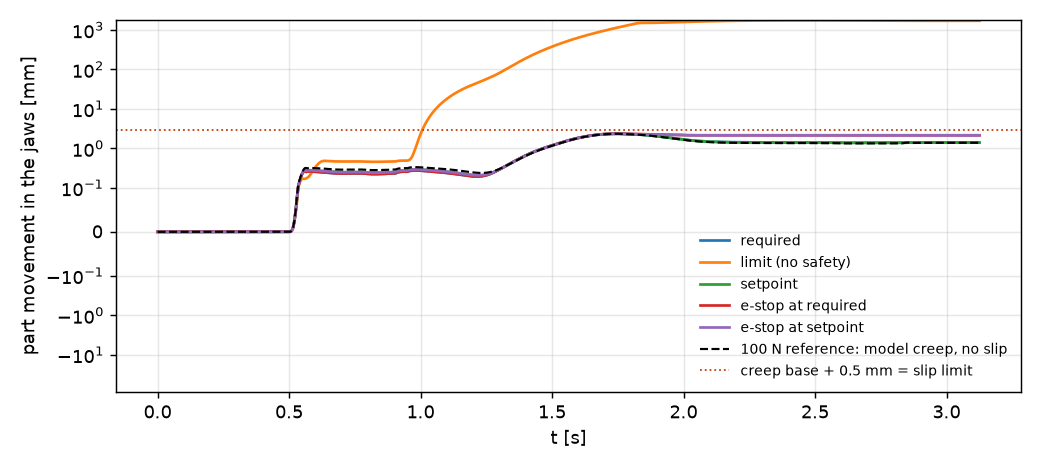
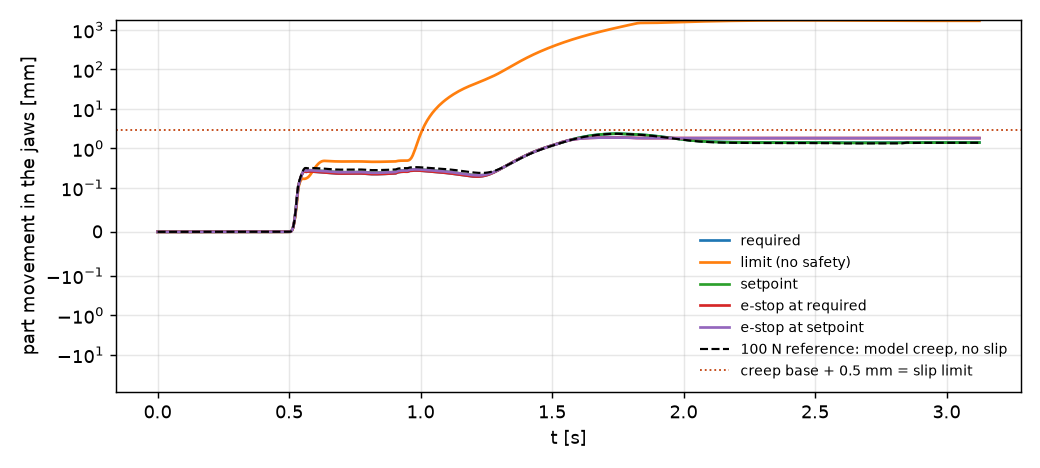
Review 2/3: category 0 e-stop anywhere in the cycle with axis-wise braking (e_stop.py); MuJoCo e-stop brakes per axis; LC4 at the ABB 82 m/s2 design acceleration

Changed region(s): [[0.5538, 0.2692, 0.9538, 0.2991]]

diff --git a/Elias/04_Simulation/e_stop.py b/Elias/04_Simulation/e_stop.py
@@ -1,0 +1,166 @@
+"""Emergency stop (category 0) anywhere in the cycle: grip force needed to keep part B (review 21 Nov 2026).
+
+python e_stop.py  ->  out/e_stop.json, figures/e_stop.png
+
+Category 0 = power off, every axis brakes on its own and the robot leaves the path. Each axis decelerates at a
+constant alpha_i (opposite to its speed) until it stands still. alpha from the ABB stop data (product specification
+p. 91: max speed, arm stretched, max load, one axis moving): a lower bound, since our load is half the nominal one
+and the arm is pulled in; the "x2" scenario doubles every alpha as a sensitivity. Wrist axes (not in the table):
+from their top speed to rest in the axis-3 stop time. A stop is started every 10 ms of the E4 cycle (both chains);
+along each stop the acceleration of part B's centre of mass and the angular acceleration of the gripper are taken
+in the gripper frame (gravity included), and the normal force per jaw that holds this load is found with the
+friction limit surface of the pad (grip_check.py): shear along y/z + twist about x, plus the shift of normal force
+between the jaws from the acceleration along x.
+"""
+import json
+import math
+import os
+import sys
+
+import mujoco
+import numpy as np
+
+import e4_cycle as E
+import sim as S
+
+HERE = os.path.dirname(os.path.abspath(__file__))
+sys.path.insert(0, os.path.join(HERE, "..", "02_CAD_Body"))
+import grip_check as GC  # noqa: E402
+
+GP, CP, MM = S.GP, S.CP, S.MM
+STOP_CAT0 = {1: (55.25, 0.40), 2: (33.39, 0.37), 3: (35.66, 0.27)}     # axis: (deg, s), spec p. 91
+T_WRIST = STOP_CAT0[3][1]
+ALPHA = np.array([2 * math.radians(STOP_CAT0[k][0]) / STOP_CAT0[k][1] ** 2 for k in (1, 2, 3)]
+                 + [math.radians(v) / T_WRIST for v in E.VMAX[3:]])          # rad/s^2
+DT, DT_STOP = 0.001, 0.002
+STEP = 0.01                                                                  # s between stop instants
+
+
+def part_inertia():
+    import trimesh
+    mesh = trimesh.load(os.path.join(HERE, "meshes", "part_b.stl"))
+    rho = GP.B_MASSE / (mesh.volume * 1e-9)
+    return mesh.moment_inertia * 1e-15 * rho, np.array(mesh.center_mass) * MM     # kg m^2 (about the CoG), m
+
+
+def make_pose_fn(m, d):
+    gid = m.body("gripper_frame").id
+    adr = [m.joint(f"A{i + 1}").qposadr[0] for i in range(6)]
+
+    def pose(q):
+        d.qpos[adr] = q
+        mujoco.mj_kinematics(m, d)
+        return d.xpos[gid].copy(), d.xmat[gid].reshape(3, 3).copy()
+    return pose
+
+
+def stop_samples(q0, qd0, alpha):
+    """Joint positions along the stop, every DT_STOP, until all axes stand."""
+    sgn = np.sign(qd0)
+    t_end = np.abs(qd0) / alpha
+    ts = np.arange(0.0, t_end.max() + 2 * DT_STOP, DT_STOP)
+    out = []
+    for t in ts:
+        tt = np.minimum(t, t_end)
+        out.append(q0 + qd0 * tt - 0.5 * alpha * sgn * tt ** 2)
+    return ts, np.array(out)
+
+
+def load_at(pose, q_of_t, t, r_cog, I_part, g=np.array([0, 0, -GP.G])):
+    """Acceleration of part B's CoG minus gravity, and the angular acceleration, in the gripper frame at time t."""
+    P, R = zip(*(pose(q_of_t(t + k * DT)) for k in (-1, 0, 1)))
+    c = [p + Rm @ r_cog for p, Rm in zip(P, R)]
+    a = (c[2] - 2 * c[1] + c[0]) / DT ** 2
+    W0 = R[1].T @ (R[2] - R[0]) / (2 * DT)                                    # skew(omega) in the body frame
+    Wp, Wm = R[2].T @ (R[2] - R[1]) / DT, R[0].T @ (R[1] - R[0]) / DT
+    w = lambda Wx: np.array([Wx[2, 1], Wx[0, 2], Wx[1, 0]])
+    alpha_b = (w(Wp) - w(Wm)) / DT
+    a_b = R[1].T @ (a - g)
+    return a_b, alpha_b, w(W0)
+
+
+def needed_force(a_b, alpha_b, omega_b, r_pad, I_part, hull, mu):
+    """Normal force per jaw for the inertial load (mass m, CoG at r_pad from the pad centre, gripper frame)."""
+    m = GP.B_MASSE
+    f = m * a_b                                   # force the pads have to supply (d'Alembert), gripper frame
+    M = np.cross(r_pad, f) + I_part @ alpha_b + np.cross(omega_b, I_part @ omega_b)
+    load = np.array([f[1], f[2], M[0]]) / 2       # per pad: shear y, shear z, twist about the grip axis x
+    return GC.normal_force(hull, load, mu) + abs(f[0]) / 2
+
+
+def run(scale=1.0, mu=GP.MU_OILY):
+    m, d = S.load()
+    pose = make_pose_fn(m, d)
+    I_part, cog_step = part_inertia()
+    r_cog = np.array(GP.PART_OFFSET) * MM + cog_step                          # gripper frame
+    w, h, _ = GC.pad(GP.PAD_Z, GP.PAD_W, GP.PART_OFFSET[2])
+    r_pad = r_cog - np.array([0.0, 0.0, 0.5 * (GP.PAD_Z[0] + GP.PAD_Z[1]) * MM])
+    hull = GC.limit_hull(w, h)
+    alpha = ALPHA * scale
+    res = {}
+    for side, chain, _, _ in E.CHAINS:
+        t, q, jaw, seg, table, _ = E.timeline(m, d, side)
+        qd = np.gradient(q, t, axis=0)
+        loaded = np.array([table[k]["loaded"] for k in seg])
+        rows = []
+        for i in range(0, len(t), int(round(STEP / E.DT))):
+            if not loaded[i]:
+                continue
+            ts, _ = stop_samples(q[i], qd[i], alpha)
+            t_end, sgn = np.abs(qd[i]) / alpha, np.sign(qd[i])
+
+            def q_of_t(tt, q0=q[i], v0=qd[i], t_end=t_end, sgn=sgn):     # analytic: constant deceleration per axis
+                tc = np.minimum(max(tt, 0.0), t_end)
+                return q0 + v0 * tc - 0.5 * alpha * sgn * tc ** 2
+            worst = (0.0, None)
+            for tb in np.arange(DT, ts[-1] - DT, DT_STOP * 5) if ts[-1] > 3 * DT else [DT]:
+                a_b, al_b, om_b = load_at(pose, q_of_t, tb, r_cog, I_part)
+                n = needed_force(a_b, al_b, om_b, r_pad, I_part, hull, mu)
+                if n > worst[0]:
+                    worst = (n, (tb, a_b, al_b))
+            n, (tb, a_b, al_b) = worst
+            rows.append(dict(t=float(t[i]), segment=table[seg[i]]["segment"], N=n, t_in_stop=float(tb),
+                             a_grip=[float(v) for v in a_b], a_abs=float(np.linalg.norm(a_b)),
+                             alpha_grip=[float(v) for v in al_b]))
+        k = int(np.argmax([r["N"] for r in rows]))
+        res[chain] = dict(worst=rows[k], rows=rows)
+    return res
+
+
+def main():
+    out = {"alpha_rad_s2": [float(a) for a in ALPHA], "mu": GP.MU_OILY, "setpoint": GP.F_GRIP_SET,
+           "current_limit": GP.F_JAW_LIMIT, "scenarios": {}}
+    for tag, sc in (("data sheet", 1.0), ("x2", 2.0)):
+        r = run(sc)
+        out["scenarios"][tag] = {c: v["worst"] for c, v in r.items()}
+        out["scenarios"][tag]["_rows"] = {c: [(x["t"], x["N"], x["a_abs"]) for x in v["rows"]] for c, v in r.items()}
+        for c, v in r.items():
+            w = v["worst"]
+            print(f"{tag:10s} {c}: worst stop at t {w['t']:.2f} s ({w['segment']}), {w['t_in_stop'] * 1000:.0f} ms into the stop: "
+                  f"|a - g| {w['a_abs']:.1f} m/s2, a_grip {np.round(w['a_grip'], 1)}, N needed {w['N']:.1f} N per jaw (S 1)")
+    json.dump(out, open(os.path.join(S.B.OUT, "e_stop.json"), "w"), indent=1)
+    plot(out)
+
+
+def plot(out):
+    import matplotlib
+    matplotlib.use("Agg")
+    import matplotlib.pyplot as plt
+    fig, ax = plt.subplots(figsize=(10, 4))
+    for (tag, sc), ls in zip(out["scenarios"].items(), ("-", "--")):
+        for c, col in (("chain_2", "#0f766e"), ("chain_1", "#2563eb")):
+            rows = np.array(sc["_rows"][c])
+            ax.plot(rows[:, 0], rows[:, 1], ls, color=col, lw=1.5, label=f"{c.replace('_', ' ')}, alpha {tag}")
+    ax.axhline(out["setpoint"], color="#C2410C", lw=1.2, label=f"setpoint {out['setpoint']:.1f} N")
+    ax.axhline(out["current_limit"], color="k", lw=1.0, ls=":", label=f"bevel gear limit {out['current_limit']:.1f} N")
+    ax.set_xlabel("instant of the category 0 stop in the cycle [s] (loaded part of the cycle)")
+    ax.set_ylabel("normal force per jaw to hold, S 1 [N]")
+    ax.set_title(f"emergency stop anywhere in the cycle, mu {out['mu']}", fontsize=10)
+    ax.legend(fontsize=8, frameon=False, ncol=2)
+    ax.grid(alpha=0.3)
+    fig.tight_layout()
+    fig.savefig(os.path.join(HERE, "figures", "e_stop.png"), dpi=130)
+
+
+if __name__ == "__main__":
+    main()

diff --git a/Elias/04_Simulation/validate_grip.py b/Elias/04_Simulation/validate_grip.py
@@ -6,7 +6,7 @@ Cases (force = jaw force limit of the current-limited drive, per jaw):
   required     F = F_GRIP_OILY (S = 2 in the hand calculation, 2.05 m/s2): the part must not slip
   limit        F = F_GRIP_OILY / S: no safety left, slip expected to start
   setpoint     F = F_GRIP_SET (S = 2 with the real 4.96 m/s2), the force the controller is set to
-  e-stop       F nominal, category 0 stop in the middle of the transfer with the ABB axis decelerations; the brake locks the jaws
+  e-stop       F nominal, category 0 stop at the worst instant of e_stop.py, each axis brakes on its own; the brake locks the jaws
 Path: pick on the buffer belt, lift, transfer to the workpiece carrier in T_EINWEG with a trapezoidal profile
 (A_BAHN, V_BAHN from cad/params.py), lower. The robot follows the joint path through stiff position control.
 """
@@ -22,6 +22,8 @@ sys.path.insert(0, HERE)
 sys.path.insert(0, os.path.join(HERE, "..", "05_FEM"))
 import sim as S  # noqa: E402
 import load_cases as L  # noqa: E402
+import e4_cycle as E  # noqa: E402
+import e_stop as ES  # noqa: E402
 
 GP, MM = S.GP, S.MM
 LIFT = 60.0                                   # mm above pick and place
@@ -100,6 +102,16 @@ def set_force(m, f_jaw):
     m.actuator_forcerange[a] = (-2 * f_jaw, 2 * f_jaw)
 
 
+def estop_instant(t_transfer):
+    """Time into the loaded transfer of the worst category 0 stop (e_stop.py, chain 2), else mid-transfer."""
+    path = os.path.join(S.B.OUT, "e_stop.json")
+    if os.path.exists(path):
+        w = json.load(open(path))["scenarios"]["data sheet"]["chain_2"]
+        t0 = next(x["t_start"] for x in E.timeline(*S.load(), +1)[4] if x["segment"] == "transfer (loaded)")
+        return min(max(w["t"] - t0, 0.0), t_transfer)
+    return 0.5 * t_transfer
+
+
 def run(case, force, estop=False, mu=None, t_transfer=None, dt_log=0.005, rec=None, creep_ref=None):
     """One cycle. mu: pad friction (default MU_PAD), t_transfer: transfer time (default T_EINWEG, ramps T/3),
     rec: viz.Recorder for the slow-motion video."""
@@ -130,7 +142,7 @@ def run(case, force, estop=False, mu=None, t_transfer=None, dt_log=0.005, rec=No
     t_tr0 = t_lift0 + T_LIFT
     t_low0 = t_tr0 + T_TR
     t_end = t_low0 + T_LIFT + 0.3
-    t_stop = t_tr0 + 0.5 * T_TR if estop else None
+    t_stop = t_tr0 + estop_instant(T_TR) if estop else None
     L_tcp = np.linalg.norm(np.array([GP.X_PLACE if hasattr(GP, "X_PLACE") else S.CP.X_PLACE, S.CP.DY_CHAIN])
                            - np.array([S.CP.X_PICK, 0.0])) * MM          # rough TCP path length per unit s
     log = {k: [] for k in ("t", "slip", "dz", "tcp", "jaw_force", "part_z", "util", "util_pad", "part_pos", "xaxis", "n")}
@@ -149,30 +161,31 @@ def run(case, force, estop=False, mu=None, t_transfer=None, dt_log=0.005, rec=No
             q = q0 + s * (q1 - q0)
         elif t < t_low0 or (estop and t_halt is not None):
             if estop and t >= t_stop:
-                if s_stop is None:                             # e-stop: decelerate the path at A_STOP, brake the jaws
+                if s_stop is None:                             # e-stop: every axis brakes on its own, jaws braked
                     s_stop, sd_stop = transfer(t_stop - t_tr0)
                     # brake: the jaws stay where they are, up to the brake limit (2 x per jaw, see set_force)
                     # the brake locks the drive under load: the elastic preload (the grip force) stays
                     d.ctrl[ja] = d.ten_length[m.tendon("jaws").id] - 2 * force / m.actuator_gainprm[ja, 0]
                     m.actuator_forcerange[ja] = (-2 * L.F_BRAKE, 2 * L.F_BRAKE)
                     t_halt = t
-                    # category 0: every axis brakes at its ABB deceleration; the path stops with the slowest one
-                    dq = np.abs(path(s_stop, 1))                # joint rate per unit path parameter here
-                    alpha = np.array([L.ALPHA_STOP.get(i + 1, L.ALPHA_STOP[3]) for i in range(6)])
-                    sdd_stop = float(np.min(alpha[dq > 1e-6] / dq[dq > 1e-6]))
-                tau = t - t_halt
-                sdd = sdd_stop
-                tau_end = sd_stop / sdd
-                tau = min(tau, tau_end)
-                s = s_stop + sd_stop * tau - 0.5 * sdd * tau * tau
+                    # category 0: each axis decelerates at its own ABB rate and the robot leaves the path (e_stop.py)
+                    q_s, qd_s = path(s_stop), path(s_stop, 1) * sd_stop
+                    alpha = ES.ALPHA
+                    t_ax, sgn_ax = np.abs(qd_s) / alpha, np.sign(qd_s)
+                tau = np.minimum(t - t_halt, t_ax)
+                q = q_s + qd_s * tau - 0.5 * alpha * sgn_ax * tau * tau
+                d.ctrl[:6] = q
+                mujoco.mj_step(m, d)
+                q = None
             else:
                 s, _ = transfer(t - t_tr0)
-            q = path(min(max(s, 0.0), 1.0))
+                q = path(min(max(s, 0.0), 1.0))
         else:
             s, _ = trapezoid(t - t_low0, T_LIFT, T_LIFT / 3)
             q = q2 + s * (q3 - q2)
-        d.ctrl[:6] = q
-        mujoco.mj_step(m, d)
+        if q is not None:
+            d.ctrl[:6] = q
+            mujoco.mj_step(m, d)
         if rec is not None:
             ph = ("grip" if t < t_lift0 else "lift" if t < t_tr0 else
                   ("E-STOP, jaws braked" if t_halt is not None else "transfer") if t < t_low0 or t_halt is not None else "lower")

diff --git a/Elias/05_FEM/load_cases.py b/Elias/05_FEM/load_cases.py
@@ -27,8 +27,14 @@ F_BRAKE = P.T_PINION_BRAKE / (2 * R_PINION)     # N per jaw before the brake sli
 
 M_PART = P.B_MASSE
 F_HOLD_Z = M_PART * (P.G + P.A_PATH_REAL) / P.N_BACKEN     # friction each jaw carries: weight + real path acceleration
-F_STOP_Z = M_PART * (P.G + A_STOP) / P.N_BACKEN
-F_STOP_Y = M_PART * A_STOP / P.N_BACKEN
+# Strength in the e-stop: ABB gives 82 m/s2 (incl. gravity) as the maximum Cartesian design acceleration in an
+# emergency stop at nominal load (spec p. 54) - the value for tool strength (review 21 Nov). The part's inertia,
+# m * 82 / 2 per jaw, is put on each pad as a shear load at 45 deg between path direction and vertical; whether the
+# part is still held at that level is e_stop.py's subject, not the strength check's.
+A_STOP_DESIGN = 82.0
+F_STOP_SHEAR = M_PART * A_STOP_DESIGN / P.N_BACKEN
+F_STOP_Y = F_STOP_SHEAR / math.sqrt(2)
+F_STOP_Z = F_STOP_SHEAR / math.sqrt(2)
 
 # (name, Fx, Fy, Fz, safety factor required against Rp0.2, what it stands for)
 LOAD_CASES = [
@@ -37,7 +43,7 @@ LOAD_CASES = [
     ("LC3 transport", P.F_GRIP_SET, M_PART * P.A_PATH_REAL / P.N_BACKEN, -F_HOLD_Z, 2.0,
      "LC1 plus the part's weight and path acceleration carried by friction"),
     ("LC4 emergency stop", P.F_JAW_MAX, F_STOP_Y, -F_STOP_Z, 1.5,
-     "LC2 plus the part decelerating at A_STOP (ABB stop data, axis 1)"),
+     "LC2 plus the part's inertia at 82 m/s2 (ABB e-stop design acceleration, spec p. 54)"),
     ("LC5 brake limit", F_BRAKE, 0.0, 0.0, 1.2,
      "power off, jaw pushed until the brake slips (misuse / collision)"),
 ]

diff --git a/Elias/04_Simulation/README.md b/Elias/04_Simulation/README.md
@@ -25,13 +25,13 @@ from two boxes (body with the flat grip faces, lug) because its convex hull woul
 
 **Path.** Pick on the belt, lift 60 mm in 0.4 s, transfer to the carrier in T_EINWEG = 2.0 s with a trapezoidal
 profile in joint space (MoveJ), lower 60 mm. Axis 1 turns about 160°, so the TCP sees up to 5 m/s², not the 2.05 m/s²
-of a straight 1.8 m line that the hand calculation assumes. E-stop (category 0): in the middle of the transfer every
-axis brakes with its deceleration from the ABB product specification (3HAC070393 rev. M, p. 91: axis 1 55.25° in
-0.40 s, i.e. 12.1 rad/s²), which gives 12.3 m/s² at the TCP; the brake locks the drive with the preload kept.
+of a straight 1.8 m line that the hand calculation assumes. E-stop (category 0) at the worst instant found by
+`e_stop.py`: each axis brakes on its own with its deceleration from the ABB product specification (3HAC070393
+rev. M, p. 91) and the robot leaves the path; 12.7 m/s² at the TCP. The brake locks the drive with the preload kept.
 
-**Results, 20 Nov 2026** (`out/grip_results.json`, `figures/grip_slip.png`), on the transfer through the vias
-(the 1200 mm enclosure, see below) at the time law with TCP acceleration <= 4.96 m/s2 (the simulated robot
-following it shows peaks of 6.4 m/s2, 7.0 in the e-stop: servo response at the via; the friction use includes it). Friction use = |vector sum
+**Results, 21 Nov 2026** (`out/grip_results.json`, `figures/grip_slip.png`), wide T-jaw pad, on the transfer
+through the vias (the 1200 mm enclosure, see below) at the time law with TCP acceleration <= 4.96 m/s2 (the
+simulated robot following it shows peaks of 6.5 m/s2: servo response at the via; the friction use includes it). Friction use = |vector sum
 of the pad friction forces| / (μ ΣF_n), median over the moving phases and 50 ms peak.
 
 | Case | Force per jaw | friction use median / peak | part movement (raw / beyond creep base) | |
@@ -39,8 +39,28 @@ of the pad friction forces| / (μ ΣF_n), median over the moving phases and 50 m
 | required (hand calc., 2.05 m/s²) | 35.7 N | 0.42 / 0.81 | 2.37 / +0.02 mm | held |
 | no safety (F / S) | 17.9 N | - / 1.00 | dropped | expected: sized for 2.05 m/s², the path needs 4.96 |
 | **setpoint** (real path 4.96 m/s²) | 44.5 N | 0.34 / 0.72 (S_eff 1.38) | 2.36 / +0.01 mm | held |
-| e-stop at required, ABB category 0 | 35.7 N | 0.41 / 0.81 | 2.35 / +0.02 mm | held |
-| e-stop at setpoint | 44.5 N | 0.33 / 0.72 | 2.35 / +0.01 mm | held |
+| e-stop at required, category 0, axes brake on their own | 35.7 N | 0.40 / 0.80 | 1.89 / +0.02 mm | held |
+| e-stop at setpoint | 44.5 N | 0.32 / 0.72 (0.62 during the stop) | 1.88 / +0.02 mm | held |
+
+## Emergency stop anywhere in the cycle (`e_stop.py`, `out/e_stop.json`, `figures/e_stop.png`)
+
+Review 21 Nov: the e-stop above used to brake along the path (7.0 m/s²), which is milder than a real category 0
+stop, and the ABB stop data (p. 91) hold for max speed, arm stretched and max load, i.e. the *weakest*
+deceleration; with our half-nominal load and the arm pulled in the robot brakes harder. `e_stop.py` starts a
+category 0 stop every 10 ms of the loaded cycle on both chains: each axis decelerates at a constant rate until it
+stands, the robot leaves the path; part B's acceleration (gravity included) and the gripper's angular acceleration
+go through the pad's friction limit surface (shear + twist, `02_CAD_Body/grip_check.py`, shift of normal force
+between the jaws included). Normal force per jaw needed at S = 1:
+
+| Deceleration of the axes | worst instant | part acceleration incl. g | needed per jaw | setpoint 44.5 N |
+|---|---|---|---|---|
+| ABB stop data (p. 91) | loaded transfer, t = 1.15 s | 21.8 m/s² | 35.5 N | held, S 1.25 |
+| twice the ABB rates (sensitivity) | start of the transfer, t = 0.57 s | 42.7 m/s² | 57.5 N | slips |
+| ABB design value 82 m/s² (p. 54, nominal load) | - | 82 m/s² | ~110 N | slips |
+
+The grip force does not rise in an e-stop (the brake holds the preload; the part's inertia goes into the pad
+friction), so the bevel gear sees no extra load; the setpoint itself is capped by the bevel gear's endurance
+(48.5 N). The 82 m/s² are ABB's value for tool strength: FEM load case LC4 uses them (S ≥ 12.5).
 
 **Creep base.** On the via path the part creeps 2.3-2.4 mm along the pads whatever the grip force: 25, 35.7, 44.5,
 48.5 and 100 N per jaw all give the same movement, a finer time step gives more (1 ms 1.72, 0.5 ms 2.38, 0.25 ms
@@ -52,8 +72,8 @@ the pads as the rubber does: before, one pad sat at its friction limit while the
 
 Hand calculation at each instant (`validate_grip.quasi_static`, `friction_check`, `out/friction_check.json`): the
 pads must carry m (a - g) in their plane, with a from the simulated part motion. Median friction use over the
-transfer, quasi-static vs simulated: required 0.420 / 0.420, setpoint 0.338 / 0.338, e-stop 0.332 / 0.332 (within
-0.1 %): the V2 model is validated. Short peaks on the via path: simulation 0.72 ... 0.81 against 0.47 ... 0.58
+transfer, quasi-static vs simulated agree within 0.1 %; note that the quasi-static value uses the simulated
+normal force and part acceleration, so this checks the friction bookkeeping, not V2's inputs. Short peaks on the via path: simulation 0.72 ... 0.81 against 0.47 ... 0.58
 quasi-static; the fast axis 1 turn on the small radius adds dynamics the hand formula does not contain. The setpoint
 covers it (peak 0.72).
 

diff --git a/Elias/05_FEM/README.md b/Elias/05_FEM/README.md
@@ -49,7 +49,7 @@ so holder and slide see their real loads. When V3 arrives only `export_train.py`
 | LC1 setpoint grip | 44.5 | 0.0 | 0.0 | 2.0 | operating grip force (real path, mu 0.2, S 2) |
 | LC2 full current | 63.6 | 0.0 | 0.0 | 2.0 | motor at full current, end stop or part |
 | LC3 transport | 44.5 | 1.5 | -4.4 | 2.0 | LC1 plus the part's weight and path acceleration carried by friction |
-| LC4 emergency stop | 63.6 | 3.6 | -6.6 | 1.5 | LC2 plus the part decelerating at 12.1 m/s² (ABB category 0 stop data, axis 1 at 1.0 m) |
+| LC4 emergency stop | 63.6 | 17.5 | -17.5 | 1.5 | LC2 plus the part's inertia at 82 m/s² (ABB e-stop design acceleration incl. gravity, spec p. 54) |
 | LC5 brake limit | 123.7 | 0.0 | 0.0 | 1.2 | power off, jaw pushed until the brake slips (misuse / collision) |
 
 **Model.** Slide fixed on its contact patch with the ball carriage (carriage taken as rigid), slide - holder and
@@ -77,7 +77,7 @@ the pad is 80.8 x 19.8 mm instead of 21.8 x 33.8 mm, low on the flat zone betwee
 | LC1 setpoint grip | 29.2 | 0.041 | 9.6 / 26.1 | 10.8 / 23.2 | 5.8 / 79.8 |
 | LC2 full current | 41.8 | 0.059 | 13.7 / 18.2 | 15.4 / 16.2 | 8.2 / 55.8 |
 | LC3 transport | 29.5 | 0.042 | 9.6 / 25.9 | 11.2 / 22.4 | 6.0 / 76.8 |
-| LC4 emergency stop | 42.5 | 0.060 | 13.7 / 18.2 | 16.4 / 15.3 | 8.7 / 52.6 |
+| LC4 emergency stop | 45.3 | 0.062 | 15.2 / 16.4 | 20.1 / 12.5 | 10.6 / 43.3 |
 | LC5 brake limit | 81.3 | 0.114 | 26.7 / 9.4 | 30.0 / 8.3 | 16.0 / 28.7 |
 
 - Strength is far from critical: S ≥ 8.3 everywhere, also at the brake limit.
